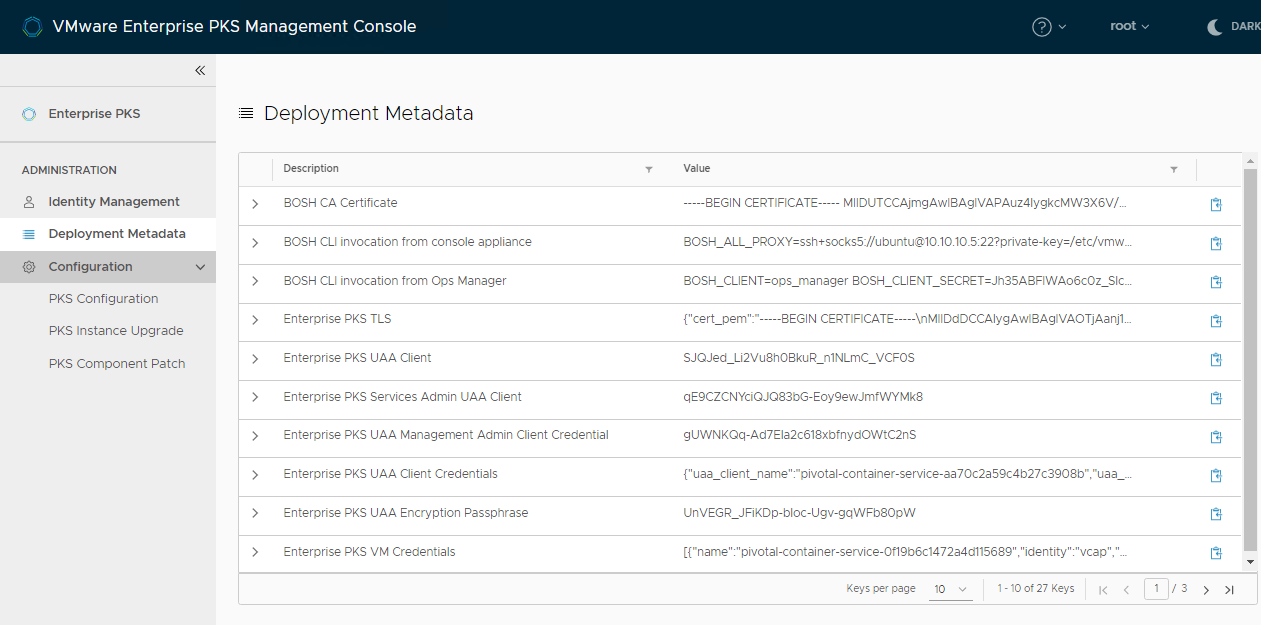
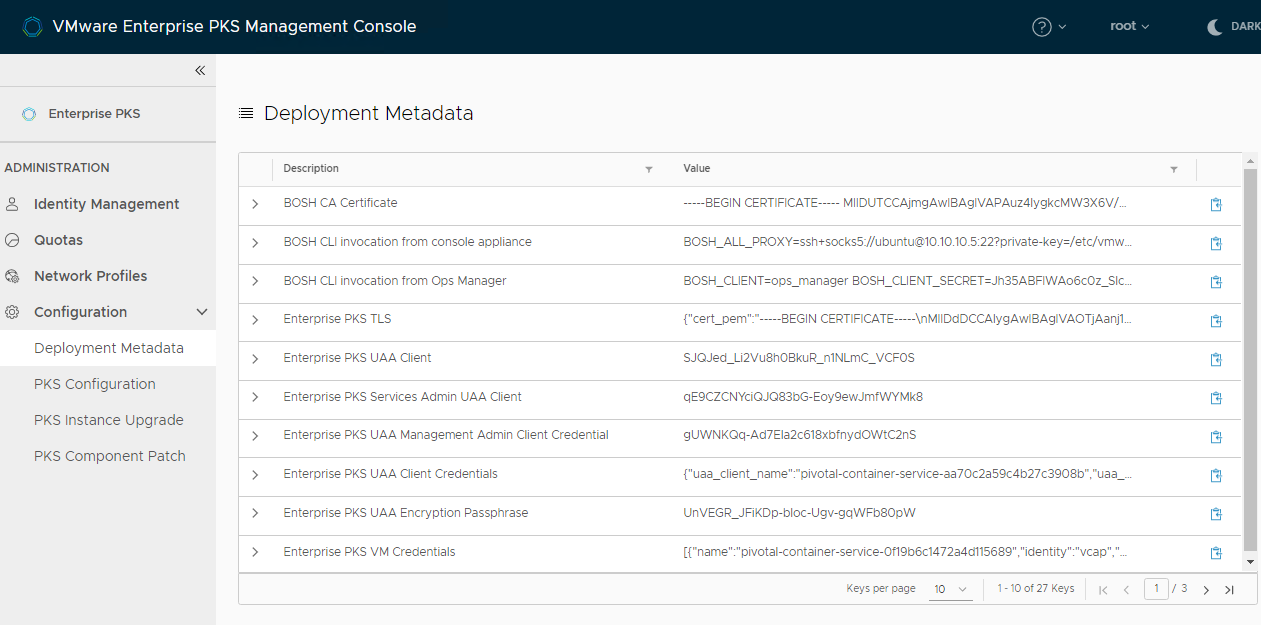
Added cluster topics and moved deployment metadata content

Changed region(s): [[0.0, 0.3648, 0.1854, 0.6384], [0.0309, 0.6688, 0.1545, 0.76], [0.0, 0.2432, 0.1545, 0.3344]]

diff --git a/console/monitor-manage-clusters.html.md b/console/monitor-manage-clusters.html.md
@@ -1,0 +1,61 @@
+---
+title: Monitor and Manage Clusters, Nodes, and Namespaces in the Management Console
+owner: PKS
+---
+
+You can find general information about your deployment, and information about all of the clusters and nodes running it, in the **Enterprise PKS** view of <%= vars.product_short %> Management Console.
+
+### <a id='cluster-status'></a>Obtain Cluster Information
+
+1. Go to the Enterprise PKS view of the management console.
+1. Select the **Clusters** tab to see detailed information about all of the clusters running in this instance.   
+    ![All clusters](images/summary-clusters.png)
+    [View a larger version of this image](images/summary-clusters.png)
+1. Select a cluster.
+<br>
+On the **Summary** tab for the cluster, you see general information about that cluster, as well as networking, and the nodes in that cluster.   
+  * In the Cluster Overview panel, select the Availability Zone links to be taken the vSphere cluster, host group, or resource pool that contains the cluster.
+  * In the Networking panel, select the links to be taken to each of the different components that comprise the network stack for the cluster.
+  * In the Nodes panel, expand **Masters** and **Workers** and select the VM links to go to those VMs in the vSphere inventory.
+    ![Overview of an individual cluster](images/individual-cluster.png)
+    [View a larger version of this image](images/individual-cluster.png) 
+1. Select the **Nodes** tab to see details of all of the nodes that are running in that cluster.
+    ![All nodes in an individual cluster](images/cluster-nodes.png)
+    [View a larger version of this image](images/cluster-nodes.png) 
+1. Select the **Namespaces** tab to see the status and networking details of all of the namespaces that are running in that cluster.
+    ![All namespaces in an individual cluster](images/cluster-namespaces.png)
+    [View a larger version of this image](images/cluster-namespaces.png) 
+
+### <a id='kubernetes-dashboard'></a>Connect to Clusters in Kubernetes Dashboard
+1. Go to the Enterprise PKS view of the management console.
+1. Select the **Clusters** tab for your Enterprise PKS instance.
+1. Select a cluster. 
+1. Select **Open Kubenetes Dashboard** for instructions about how to access the cluster by using Kubernetes Dashboard.
+    ![Connect to a cluster in K8S Dashboard](images/dashboard.png)
+    [View a larger version of this image](images/dashboard.png) 
+
+### <a id='kubectl'></a>Connect to Clusters with kubectl
+
+1. Go to the Enterprise PKS view of the management console.
+1. Select the **Clusters** tab for your Enterprise PKS instance.
+1. Select a cluster. 
+1. Select **Access Cluster** for instructions about how to access the cluster by using `kubectl`.
+    ![Connect to a cluster in K8S Dashboard](images/kubectl.png)
+    [View a larger version of this image](images/kubectl.png) 
+1. Click **Email** to send the instructions to users who need to use `kubectl` to connect to this cluster.
+
+### <a id='node-status'></a>Obtain Node Information
+
+1. Go to the Enterprise PKS view of the management console.
+1. Select the **Nodes** tab to see detailed information about all of the nodes running in this instance.  
+
+    This tab shows the general status, type, name, IP, and availability zone for all of the nodes that are running in your Enterprise PKS instance.
+
+    ![All nodes](images/summary-nodes.png)
+    [View a larger version of this image](images/summary-nodes.png)
+1. Click the links in the Kubernetes Clusters columns to go the **Summary** tab of that cluster.
+    ![Go to a node's cluster](images/node-cluster-link.png)
+    [View a larger version of this image](images/node-cluster-link.png) 
+1. Click the links in the VM Name column to be taken to the node VMs in the vSphere inventory.
+    ![Go to a node VM](images/node-vm-link.png)
+    [View a larger version of this image](images/node-vm-link.png)
